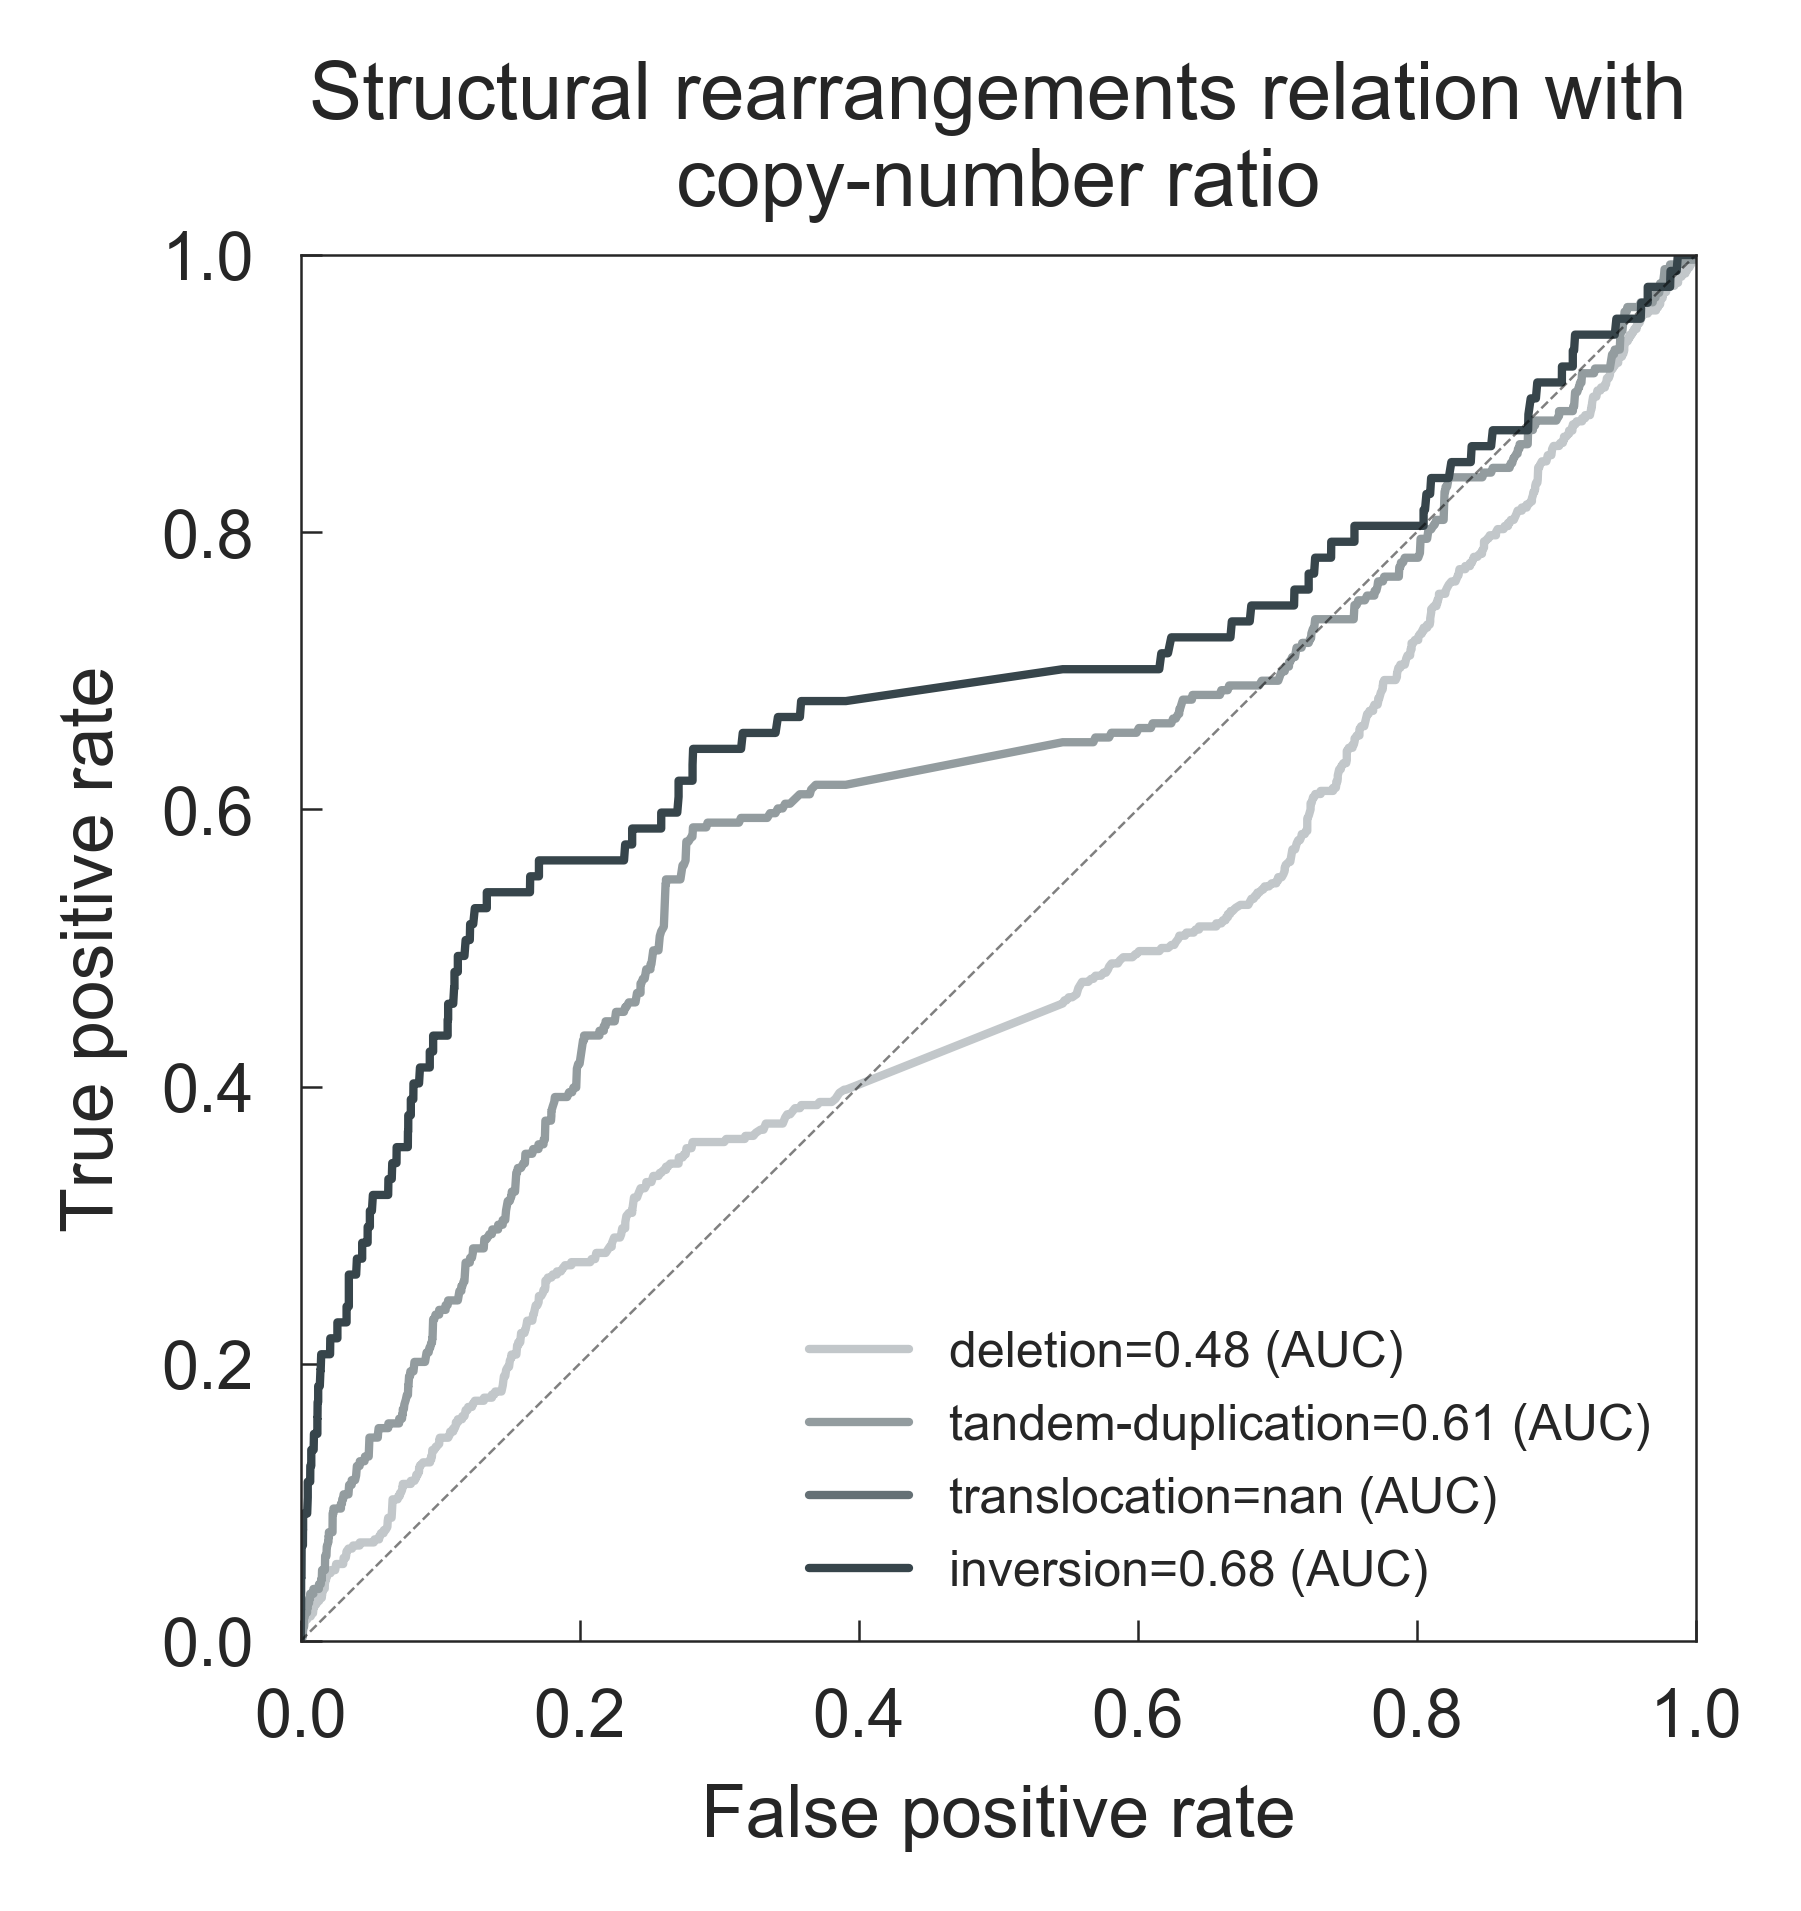
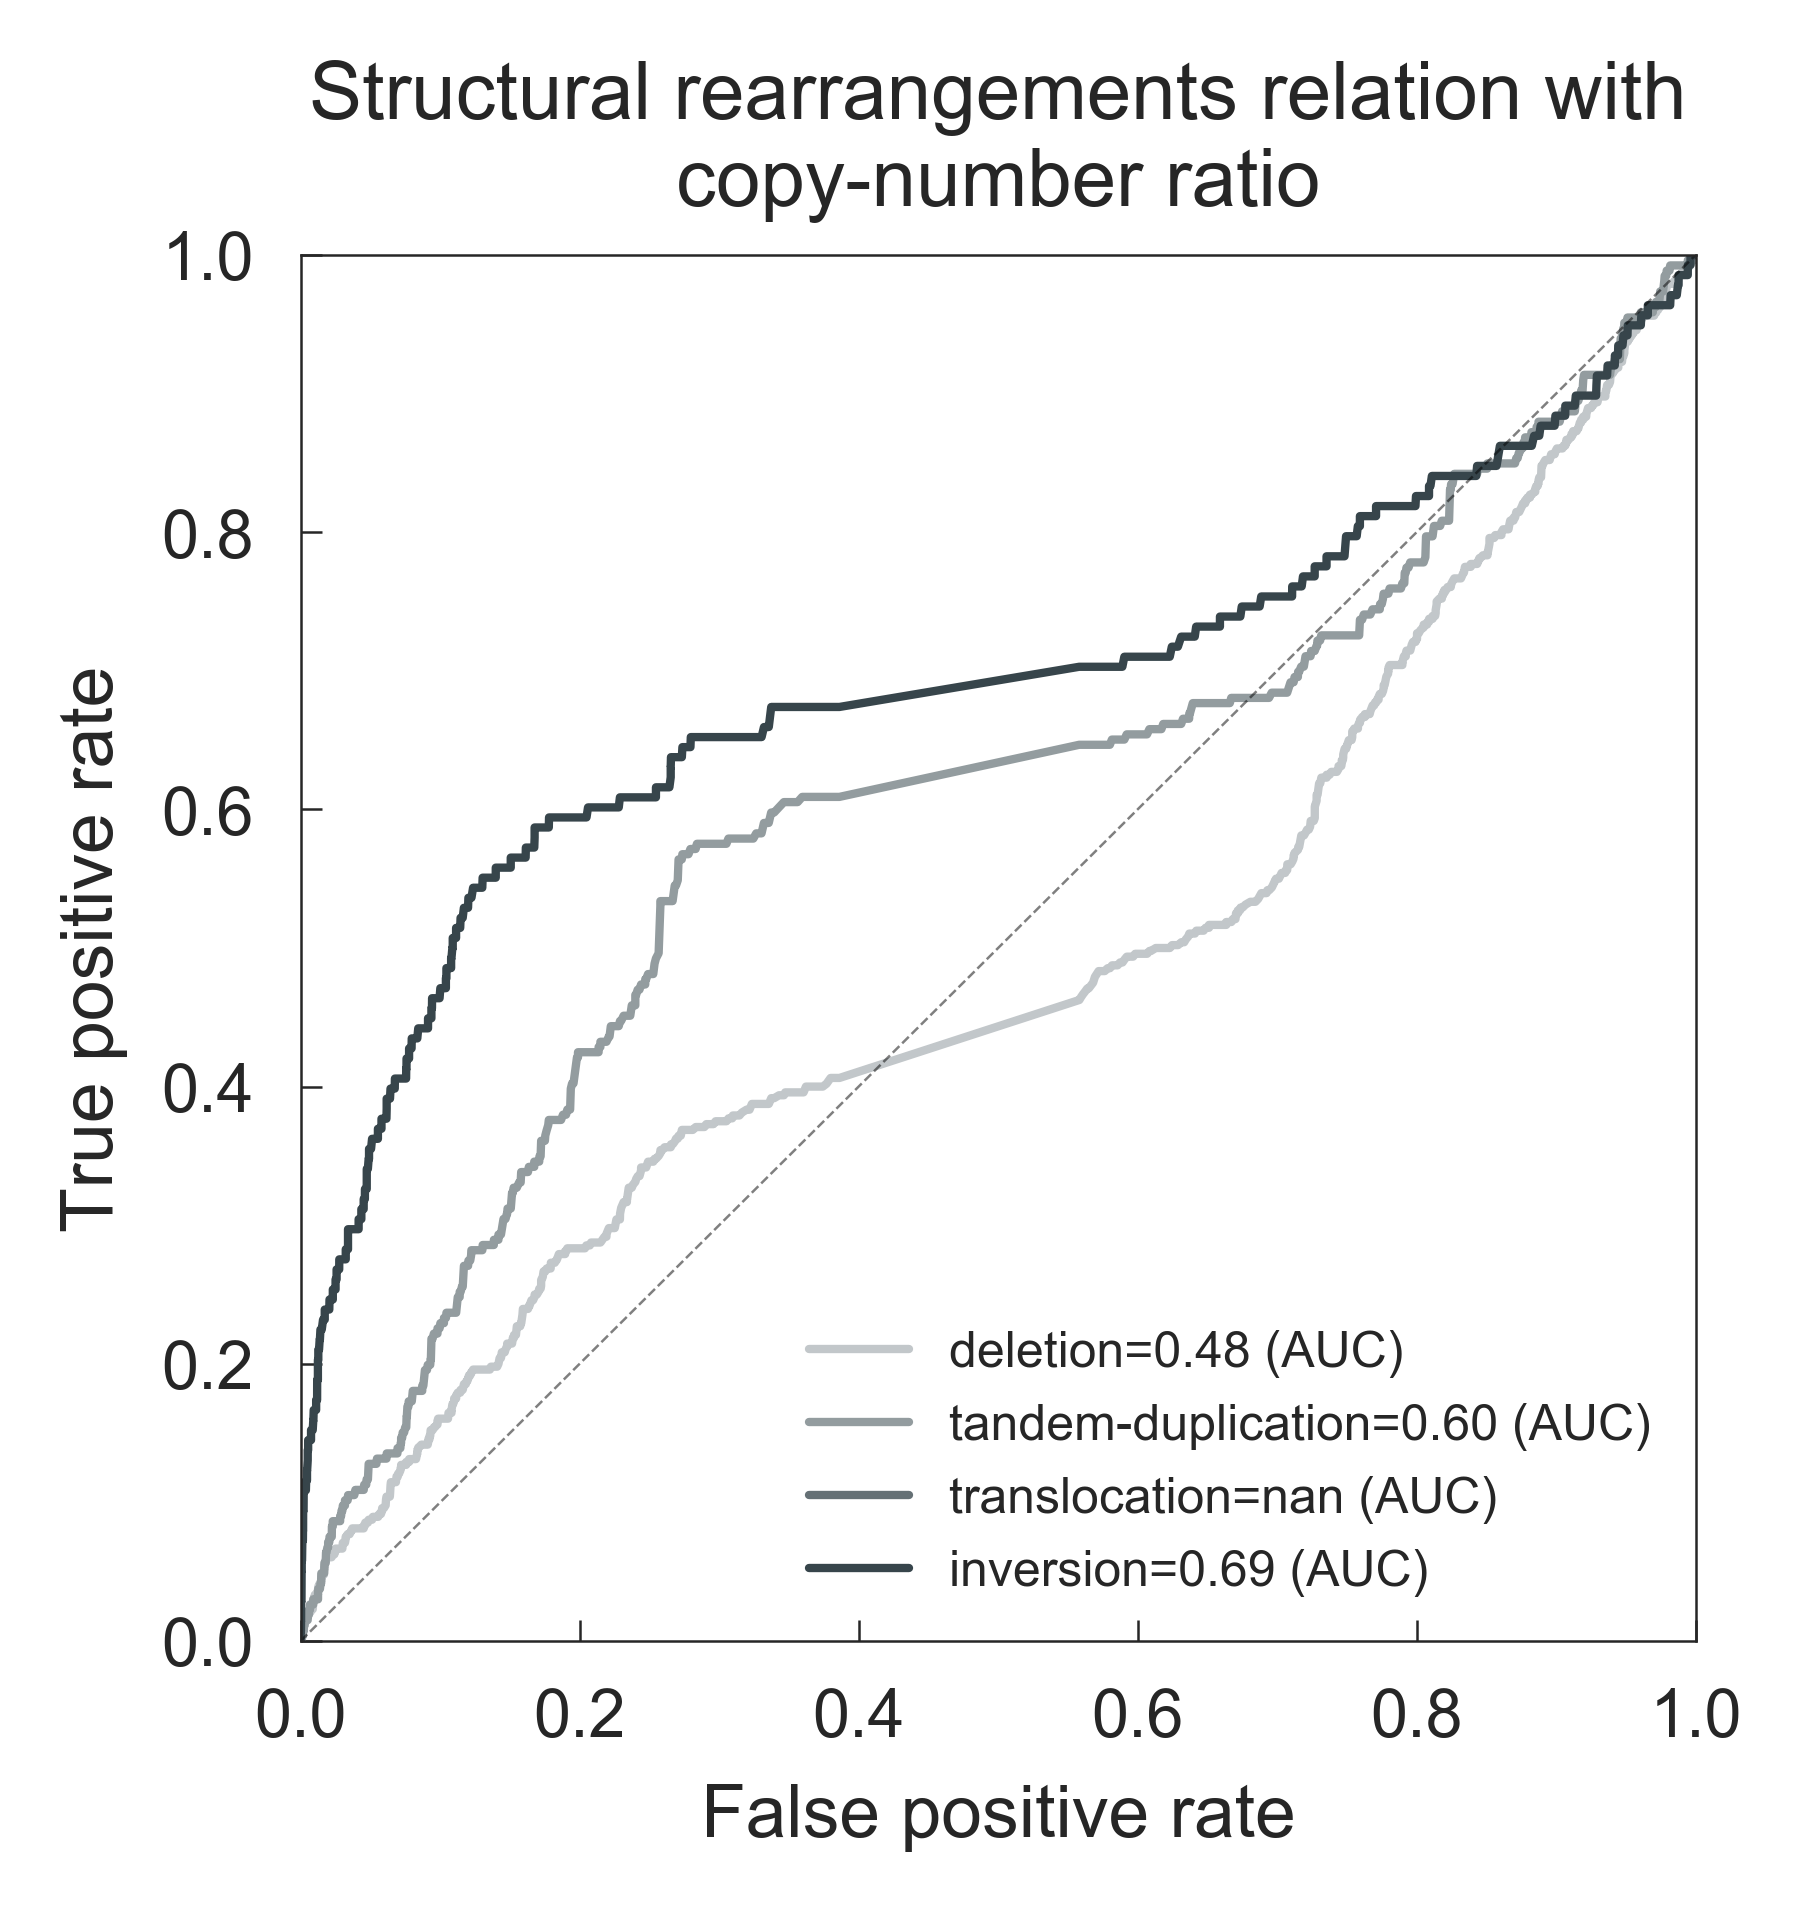
Growth rate correlation with drug response PCA

diff --git a/scripts/drug/growthrate.py b/scripts/drug/growthrate.py
@@ -1,0 +1,122 @@
+#!/usr/bin/env python
+# Copyright (C) 2018 Emanuel Goncalves
+
+import numpy as np
+import pandas as pd
+import seaborn as sns
+import matplotlib.pyplot as plt
+from crispy import bipal_dbgd
+from sklearn.decomposition import PCA
+
+
+def assemble_growth_rates(seed_intensities_file, output_file):
+    # Import
+    dratio = pd.read_csv(seed_intensities_file, index_col=0)
+
+    # Convert to date
+    dratio['DATE_CREATED'] = pd.to_datetime(dratio['DATE_CREATED'])
+
+    # Group growth ratios per seeding
+    d_nc1 = dratio.groupby(['CELL_LINE_NAME', 'SEEDING_DENSITY']).agg({'growth_rate': [np.median, 'count'], 'DATE_CREATED': [np.max]}).reset_index()
+    d_nc1.columns = ['_'.join(filter(lambda x: x != '', i)) for i in d_nc1]
+
+    # Pick most recent measurements per cell line
+    d_nc1 = d_nc1.iloc[d_nc1.groupby('CELL_LINE_NAME')['DATE_CREATED_amax'].idxmax()].set_index('CELL_LINE_NAME')
+
+    # Export
+    d_nc1.to_csv(output_file)
+
+    print('[INFO] Growth rates per cell line exported: {}'.format(output_file))
+
+    return d_nc1
+
+
+def filter_drug_response(df):
+    df = df[df.count(1) > df.shape[1] * .85]
+    df = df.fillna(df.mean())
+    return df
+
+
+def perform_pca(df, n_components=10):
+    d_pca = PCA(n_components=n_components).fit(df)
+    d_pca_pcs = pd.DataFrame(d_pca.transform(df), index=df.index, columns=map(lambda x: 'PC{}'.format(x), range(1, n_components + 1)))
+    return d_pca, d_pca_pcs
+
+
+def plot_var_explained(pca, title, outfile):
+    plot_df = pd.Series(
+        pca.explained_variance_ratio_,
+        index=map(lambda x: 'PC{}'.format(x), range(1, len(pca.explained_variance_ratio_) + 1))
+    ).sort_values(ascending=True).multiply(100)
+
+    ypos = list(map(lambda x: x[0], enumerate(plot_df.index)))
+
+    plt.barh(ypos, plot_df, .8, color=bipal_dbgd[0], align='center')
+
+    plt.yticks(ypos)
+    plt.yticks(ypos, plot_df.index)
+
+    plt.xlabel('Explained variance (%)')
+    plt.ylabel('Principal component')
+    plt.title(title)
+
+    plt.gcf().set_size_inches(2, 3)
+    plt.savefig(outfile, bbox_inches='tight', dpi=600)
+    plt.close('all')
+
+    return plot_df
+
+
+def plot_pca_jointplot(pc, feature, varexp, outfile):
+    plot_df = pd.concat([pc, feature], axis=1).dropna()
+
+    g = sns.jointplot(pc.name, feature.name, data=plot_df, space=0, color=bipal_dbgd[0], joint_kws={'edgecolor': 'white', 'alpha': .8})
+
+    g.set_axis_labels('Drug response PC 1 ({0:.1f}%)'.format(varexp), 'Growth rate')
+
+    plt.gcf().set_size_inches(3, 3)
+    plt.savefig(outfile, bbox_inches='tight', dpi=600)
+    plt.close('all')
+
+
+def main():
+    # - Imports
+    # Import/assemble growth rates
+    grate = assemble_growth_rates('data/gdsc/growth/growth_rates_screening_set_1536_180119.csv', 'data/gdsc/growth/growth_rate.csv')
+
+    # Drug response
+    d_response = pd.read_csv('data/gdsc/drug_single/drug_ic50_merged_matrix.csv', index_col=[0, 1, 2], header=[0, 1])
+    d_response.columns = d_response.columns.droplevel(0)
+
+    # CRISPR
+    crispr = pd.read_csv('data/gdsc/crispr/crisprcleanr_gene.csv', index_col=0).dropna()
+
+    # - Filter Drug response
+    d_response = filter_drug_response(d_response[list(set(d_response).intersection(crispr).intersection(crispr).intersection(grate.index))])
+
+    # - Drug response PCA
+    d_pca, d_pca_pcs = perform_pca(d_response.T)
+
+    d_pca_varexp = plot_var_explained(d_pca, 'Drug response PCA', 'reports/drug/drug_pca_expvar.png')
+
+    plot_pca_jointplot(d_pca_pcs['PC1'], grate['growth_rate_median'], d_pca_varexp['PC1'], 'reports/drug/drug_pca_growth.png')
+
+    # - Drug response correlation with growth
+    dg_cor = d_response.T.corrwith(grate.loc[d_response.columns, 'growth_rate_median']).sort_values().rename('cor').reset_index()
+
+    # Histogram
+    sns.distplot(dg_cor.query("VERSION == 'RS'")['cor'], label='RS', color=bipal_dbgd[0], bins=10, kde=False, kde_kws={'lw': 1.})
+    sns.distplot(dg_cor.query("VERSION == 'v17'")['cor'], label='v17', color=bipal_dbgd[1], bins=10, kde=False, kde_kws={'lw': 1.})
+
+    plt.title('Drug-response correlation with growth rate')
+    plt.xlabel("Pearson's r")
+    plt.ylabel('Count')
+    plt.legend(loc='upper left')
+
+    plt.gcf().set_size_inches(3, 2)
+    plt.savefig('reports/drug/drug_growth_corr_hist.png', bbox_inches='tight', dpi=600)
+    plt.close('all')
+
+
+if __name__ == '__main__':
+    main()

diff --git a/scripts/crispy/wgs_brass_cnv_ratio.py b/scripts/crispy/wgs_brass_cnv_ratio.py
@@ -11,48 +11,68 @@ from sklearn.metrics import roc_curve, auc
 
 
 # - Import
+# Ploidy
+ploidy = pd.read_csv('data/crispy_copy_number_ploidy_wgs.csv', index_col=0, names=['sample', 'ploidy'])['ploidy'].apply(np.log2)
+
 # Gene copy-number ratio
-cnv_ratios = pd.read_csv('data/crispy_copy_number_gene_ratio_wgs.csv', index_col=0).apply(np.log2)
+cnv_ratios = pd.read_csv('data/crispy_copy_number_gene_ratio_wgs.csv', index_col=0).apply(np.log10)
 
 # Copy-number
-cnv = pd.read_csv('data/crispy_copy_number_gene_wgs.csv', index_col=0)
+cnv = pd.read_csv('data/crispy_copy_number_gene_wgs.csv', index_col=0).apply(np.log10)
 
-# Ploidy
-ploidy = pd.read_csv('data/crispy_copy_number_ploidy_wgs.csv', index_col=0, names=['sample', 'ploidy'])['ploidy']
+# Gene-expression
+gexp = pd.read_csv('data/gdsc/gene_expression/merged_rpkm_preprocessed.csv', index_col=0).dropna()
 
-# cnv_ratios = cnv.divide(ploidy).apply(np.log2)
+# Brass
+brass = pd.read_csv('data/gdsc/wgs/wgs_brass_bedpe.csv')
+brass['sample'] = brass['sample'].apply(lambda v: v.split(',')[0])
+
+
+# -
+genes = set(cnv.index).intersection(cnv_ratios.index).intersection(gexp.index)
+samples = list(set(cnv_ratios).intersection(brass['sample']).intersection(gexp))
+print('Samples: {}; Genes: {}'.format(len(samples), len(genes)))
 
 
 # -
 order = ['deletion', 'tandem-duplication', 'translocation', 'inversion']
 
-# Import
-brass_df = pd.read_csv('data/gdsc/wgs/wgs_brass_bedpe.csv')
-
-# Parse sample
-brass_df['sample'] = brass_df['sample'].apply(lambda v: v.split(',')[0])
-
 # Filter
-brass_df = brass_df[brass_df['svclass'].isin(order)]
-
+brass_df = brass[brass['svclass'].isin(order)]
+brass_df = brass_df.query("assembly_score != '_'")
+brass_df = brass_df.query("bkdist != -1")
 brass_df = brass_df[brass_df['gene_id1'] == brass_df['gene_id2']]
-
-brass_df = brass_df.query("gene_id1 != '_'")
-
-brass_df = brass_df[brass_df['bkdist'] > 2500]
-
 brass_df = brass_df.groupby(['sample', 'gene_id1'])['svclass'].agg(lambda x: set(x)).to_dict()
-
 brass_df = {k: list(brass_df[k])[0] for k in brass_df if len(brass_df[k]) == 1}
 
-# -
-overlap = list({k[0] for k in brass_df}.intersection(cnv_ratios))
-
 
 # -
-sv_ratio = cnv_ratios[overlap].unstack().reset_index().dropna()
+sv_ratio = cnv_ratios[samples].unstack().reset_index().dropna()
 sv_ratio = sv_ratio.rename(columns={'level_0': 'sample', 'level_1': 'gene', 0: 'ratio'})
 sv_ratio['svclass'] = [brass_df[(s, g)] if (s, g) in brass_df else '-' for s, g in sv_ratio[['sample', 'gene']].values]
+
+
+# - Corr
+corr_cnv = gexp.loc[genes, samples].T.corrwith(cnv.loc[genes, samples].T)
+corr_ratios = gexp.loc[genes, samples].T.corrwith(cnv_ratios.loc[genes, samples].T)
+
+# Plot
+plot_df = pd.concat([corr_cnv.rename('cnv'), corr_ratios.rename('ratios')], axis=1).dropna()
+
+g = sns.jointplot(
+    'cnv', 'ratios', data=plot_df, kind='reg', space=0, color=bipal_dbgd[0], annot_kws=dict(stat='r'),
+    marginal_kws={'kde': False}, joint_kws={'scatter_kws': {'edgecolor': 'w', 'lw': .3, 's': 8, 'alpha': .3}, 'line_kws': {'lw': 1.}}
+)
+plt.gcf().set_size_inches(3, 3)
+plt.savefig('reports/crispy/brass_sv_ratio_corr_jointplot.png', bbox_inches='tight', dpi=600)
+plt.close('all')
+
+#
+sns.distplot(plot_df.eval('cnv - ratios'), bins=30, color=bipal_dbgd[0])
+plt.axvline(0, lw=.1, ls='--', color=bipal_dbgd[0], alpha=.8)
+plt.gcf().set_size_inches(3, 2)
+plt.savefig('reports/crispy/brass_sv_ratio_corr_histogram.png', bbox_inches='tight', dpi=600)
+plt.close('all')
 
 
 # -
@@ -77,7 +97,7 @@ plt.savefig('reports/crispy/brass_sv_ratio_cumdist.png', bbox_inches='tight', dp
 plt.close('all')
 
 #
-sns.boxplot('ratio', 'svclass', data=sv_ratio, orient='h', color=bipal_dbgd[0], notch=True, linewidth=.5, fliersize=1)
+sns.boxplot('ratio', 'svclass', data=sv_ratio, orient='h', order=order, color=bipal_dbgd[0], notch=True, linewidth=.5, fliersize=1)
 plt.title('Structural rearrangements relation with\ncopy-number ratio')
 plt.xlabel('Copy-number ratio (rank)')
 plt.ylabel('')

diff --git a/scripts/drug/lm_drug_crispr.py b/scripts/drug/lm_drug_crispr.py
@@ -29,7 +29,7 @@ ss = pd.read_csv('data/gdsc/samplesheet.csv', index_col=0).dropna(subset=['Cance
 ds = pd.read_csv('data/gdsc/drug_samplesheet.csv', index_col=0)
 
 # Growth rate
-growth = pd.read_csv('data/gdsc/growth_rate.csv', index_col=0)
+growth = pd.read_csv('data/gdsc/growth/growth_rate.csv', index_col=0)
 
 
 # - Overlap
